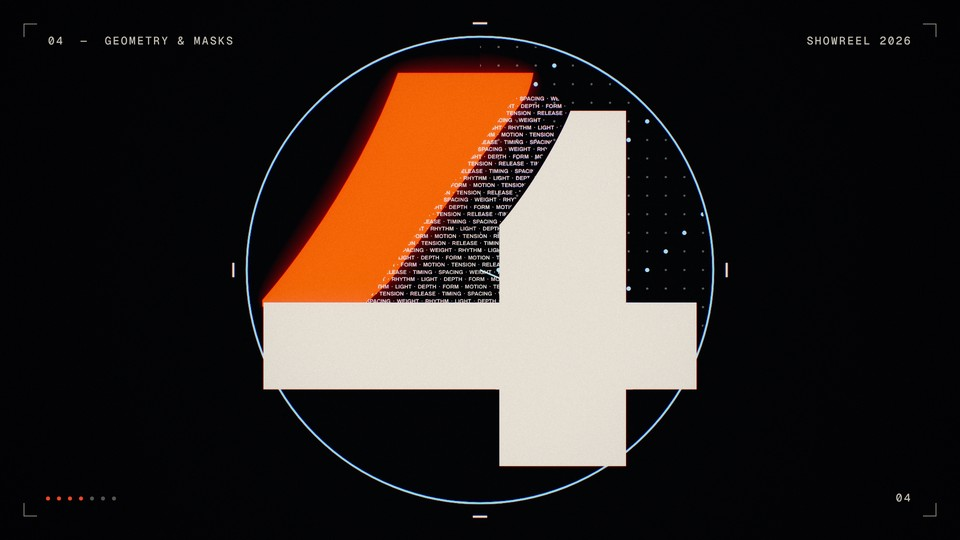
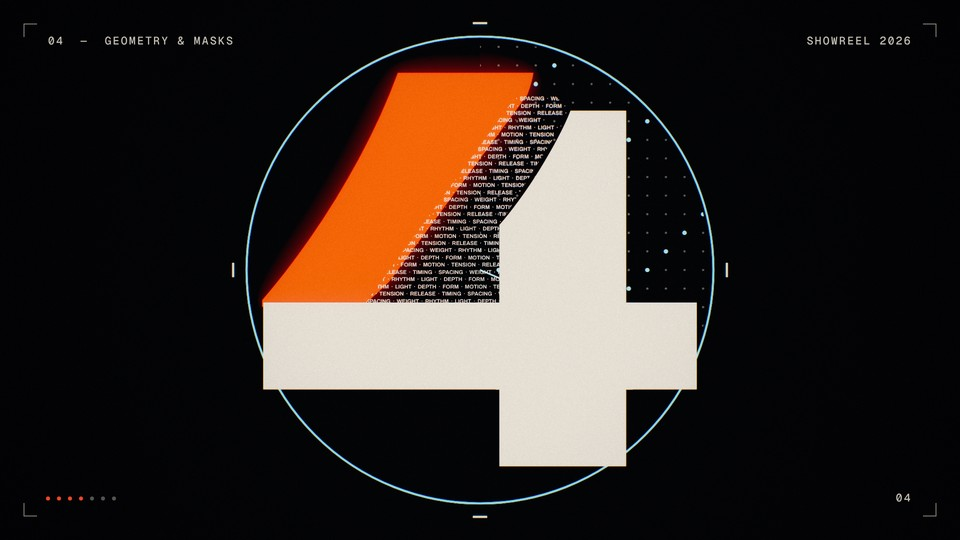
leader-reel: land the 4→3 zoom at rest on the rows, regenerate lockup stills
The geometry zoom now eases in and out (in log scale) and its zoom blur
follows the zoom velocity, so the push arrives at rest on the rows the
type world starts from. The counter's interior veils to void during the
blurred middle of the zoom, hiding the dot grid and the sweep hand that
used to vanish at the cut. The type world no longer starts with a
carried-over zoom blur. The verifier clamps sheet times inside the clip.

Claude-Session: https://claude.ai/code/session_015dMKQaGM93W8JEGXy1EV8L

diff --git a/films/leader-reel/src/worlds/geometry.js b/films/leader-reel/src/worlds/geometry.js
@@ -84,6 +84,13 @@ window.WorldGeometry = function (E) {
     SH.counterPoly.forEach(([x, y], i) => (i ? g.lineTo(x, y) : g.moveTo(x, y)));
     g.closePath();
     g.clip();
+    // during the blurred middle of the zoom the counter's interior goes to void (hiding the dot grid and the hand
+    // behind it), so the push lands on rows of type alone, exactly what the type world starts from
+    const veil = U.seg(t, T_ZOOM + 0.08, T1 - 0.1, U.E.p2io);
+    if (veil > 0) {
+      g.fillStyle = `rgba(6,7,11,${veil})`;
+      g.fillRect(-1e5, -1e5, 2e5, 2e5);
+    }
     const reveal = U.seg(t, 7.96875, 8.30, U.E.p3out);
     g.fillStyle = "rgba(237,230,218,0.92)";
     g.font = `600 ${SH.FONT_PX}px Archivo`;
@@ -103,8 +110,11 @@ window.WorldGeometry = function (E) {
   }
 
   function render(t, target) {
-    // camera: slight push, then the zoom into the counter stripes
-    const zk = U.seg(t, T_ZOOM, T1, U.E.expoIn);
+    // camera: slight push, then the zoom into the counter stripes. Ease-in-out in log scale, so the push lands on
+    // the rows at rest and the type world picks them up without a jolt; zv is the normalized zoom velocity (0..1)
+    const zs = U.seg(t, T_ZOOM, T1);
+    const zk = U.E.p3io(zs);
+    const zv = zs < 0.5 ? 4 * zs * zs : 4 * (1 - zs) * (1 - zs);
     const zoom = U.mix(1.0, 1.035, U.seg(t, T0, T_ZOOM, U.E.sineIo)) * Math.exp(Math.log(SH.ZOOM_END / 1.035) * zk);
     const f = SH.focus;
     const fx = U.mix(960, f[0], U.seg(t, T_ZOOM - 0.1, T1, U.E.p2io)), fy = U.mix(540, f[1], U.seg(t, T_ZOOM - 0.1, T1, U.E.p2io));
@@ -234,9 +244,9 @@ window.WorldGeometry = function (E) {
     }
     tex.needsUpdate = true;
     matShow.uniforms.uTex.value = tex;
-    matShow.uniforms.uZoomBlur.value = zk;
+    matShow.uniforms.uZoomBlur.value = zv;
     E.pass(matShow, target);
-    return { bloom: 0.3, bloomThreshold: 1.1, speed: zk * 0.6, zoomBlur: zk * 0.25, zoomCenter: [0.5, 0.5], grain: 0.03 };
+    return { bloom: 0.3, bloomThreshold: 1.1, speed: zv * 0.6, zoomBlur: zv * 0.3, zoomCenter: [0.5, 0.5], grain: 0.03 };
   }
   function scaleBox(b, s) {
     if (s === 1) return b;

diff --git a/films/leader-reel/src/worlds/type.js b/films/leader-reel/src/worlds/type.js
@@ -227,8 +227,8 @@ window.WorldType = function (E) {
     matShow.uniforms.uTex.value = tex;
     matShow.uniforms.uTexB.value = texB;
     E.pass(matShow, target);
-    const zb = 0.25 * (1 - U.seg(t, T0, T0 + 0.16, U.E.p2out));
-    return { bloom: 0.32, bloomThreshold: 1.05, zoomBlur: zb, zoomCenter: [0.5, 0.5], speed: zb * 2 + U.seg(t, T_BEND0, T_BEND1) * (1 - U.seg(t, 9.7, T_BEND1)) * 0.3 };
+    // the geometry zoom lands at rest on these rows, so the type world starts sharp (no carried-over zoom blur)
+    return { bloom: 0.32, bloomThreshold: 1.05, speed: U.seg(t, T_BEND0, T_BEND1) * (1 - U.seg(t, 9.7, T_BEND1)) * 0.3 };
   }
 
   const matShow = E.material(`

diff --git a/films/leader-reel/scripts/verify_render.py b/films/leader-reel/scripts/verify_render.py
@@ -79,6 +79,7 @@ def sheet(fps):
     times = [0.25, 0.9, 1.6, 2.3, 2.9, 3.5, 4.3, 5.0, 5.9, 6.6, 7.4, 8.4, 9.0, 9.6, 10.2, 10.8, 11.4, 12.0, 12.6, 13.4, 13.9, 14.3, 14.7, 14.97]
     tiles = []
     for t in times:
+        t = min(t, DUR - 1.5 / fps)
         raw = subprocess.run(["ffmpeg", "-v", "error", "-ss", f"{t:.3f}", "-i", MP4, "-frames:v", "1", "-vf", "scale=384:216", "-f", "rawvideo", "-pix_fmt", "rgb24", "-"], capture_output=True, check=True).stdout
         tiles.append((t, Image.frombytes("RGB", (384, 216), raw)))
     cols = 6
